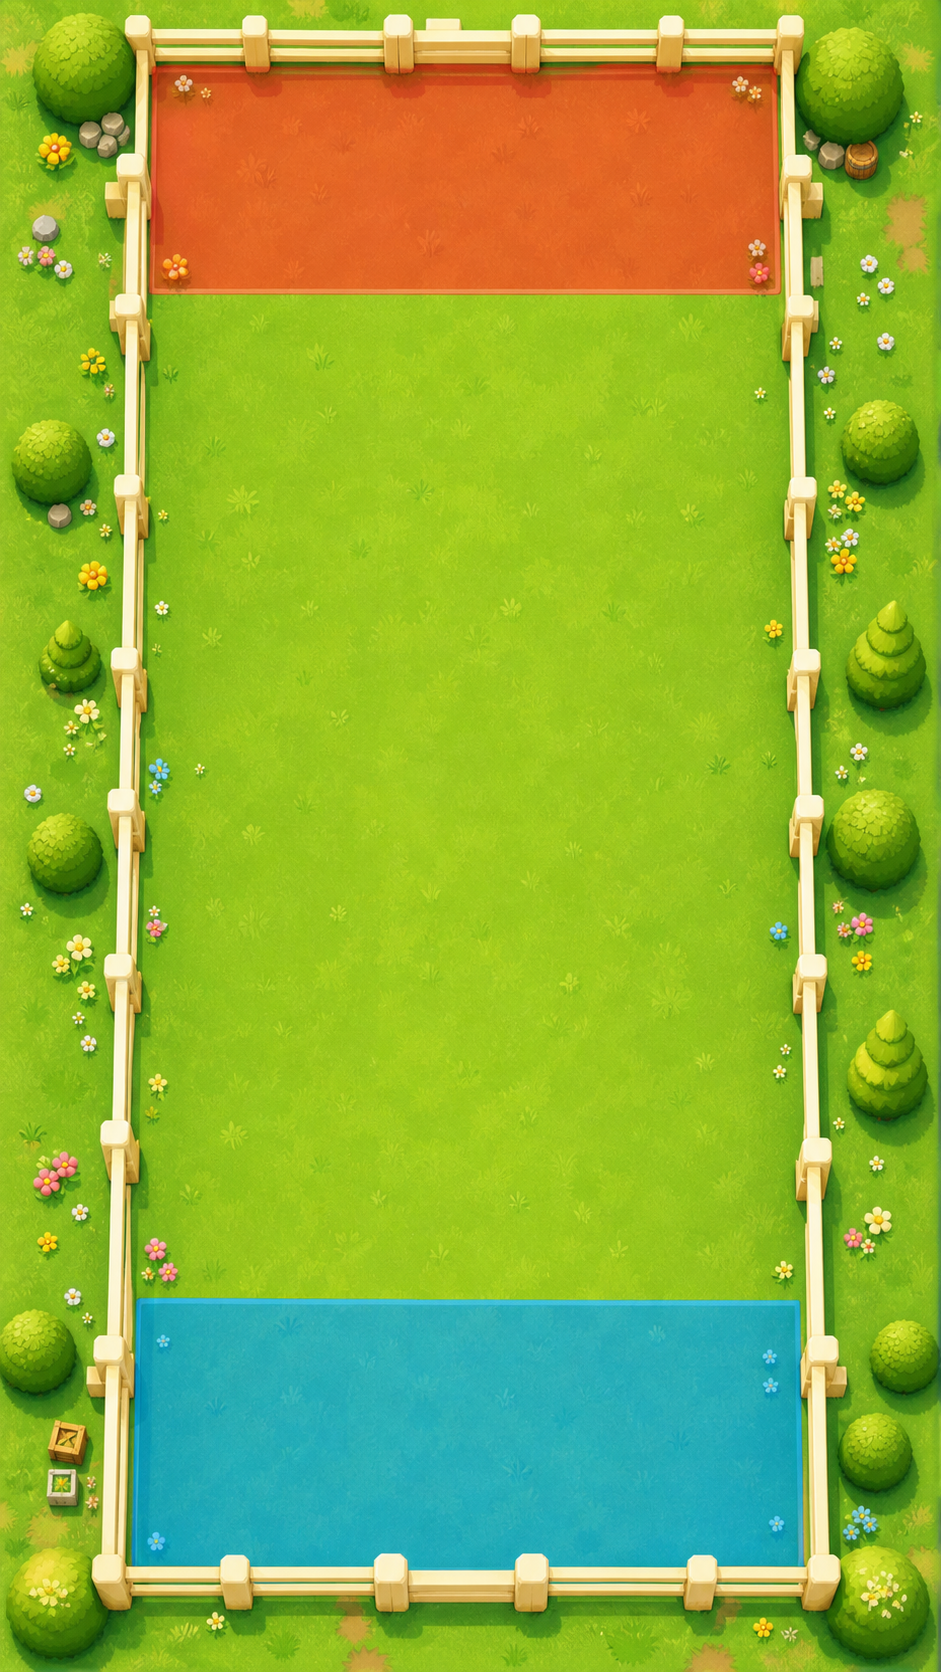
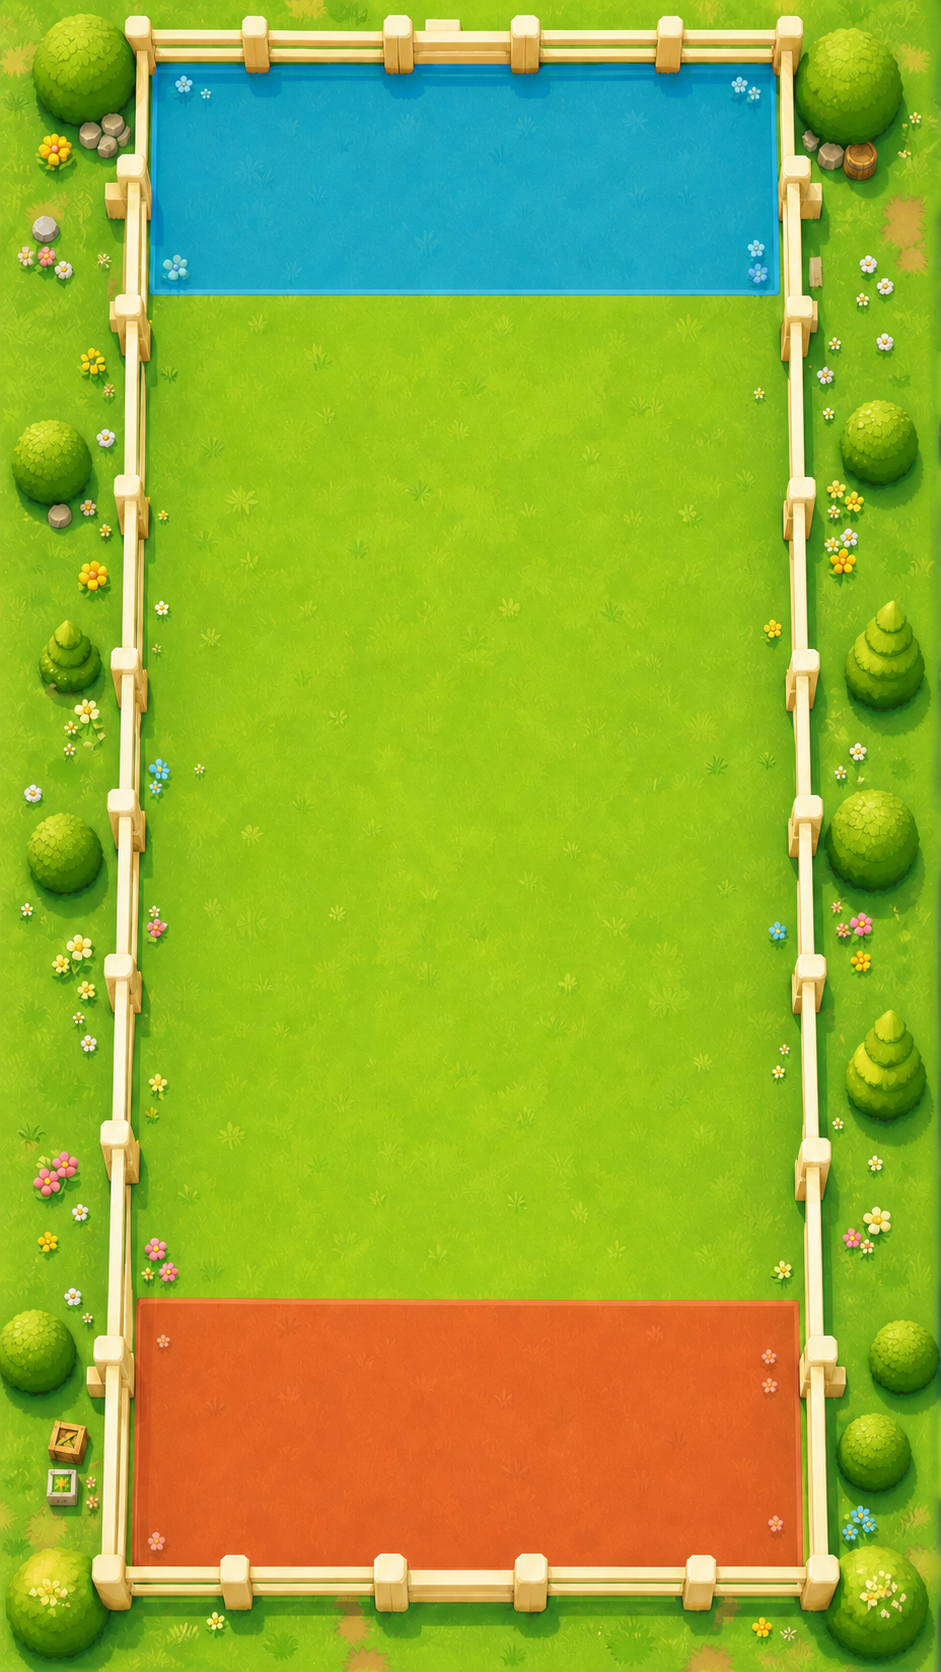
Update sheepdog controls and goals

diff --git a/src/main.ts b/src/main.ts
@@ -10,15 +10,18 @@ const SHEEP_COUNT = 50;
 const MATCH_SECONDS = 90;
 const DOG_MAX_SPEED = 9.2;
 const DOG_ACCELERATION = 34;
-const SHEEP_MAX_SPEED = 6.3;
-const SHEEP_REPEL_RADIUS = 5.2;
-const SHEEP_SEPARATION_RADIUS = 1.65;
+const SHEEP_MAX_SPEED = 7.2;
+const SHEEP_REPEL_RADIUS = 6.4;
+const SHEEP_REPEL_FORCE = 46;
+const SHEEP_SEPARATION_RADIUS = 1.9;
+const SHEEP_SEPARATION_FORCE = 7.2;
 const SHEEP_WANDER_FORCE = 1.6;
 const SHEEP_WANDER_INTERVAL_MIN = 0.8;
 const SHEEP_WANDER_INTERVAL_MAX = 2.2;
 const SHEEP_SCORE_DURATION = 0.72;
 const TARGET_MIN_DISTANCE = 3.1;
 const TARGET_GRAB_RADIUS = 1.65;
+const TARGET_DRAG_READY_DISTANCE = 0.65;
 const FIELD_MARGIN = 0.75;
 const DOG_SCALE = 1.45;
 const SHEEP_SCALE = 1.55;
@@ -41,7 +44,7 @@ type Player = {
   dogVelocity: THREE.Vector3;
   target: THREE.Vector3;
   targetRing: THREE.Group;
-  leash: THREE.Line;
+  leash: THREE.Mesh;
 };
 
 type Sheep = {
@@ -72,8 +75,8 @@ const resultTitle = requireElement<HTMLElement>("#result-title");
 const resultDetail = requireElement<HTMLElement>("#result-detail");
 
 const scene = new THREE.Scene();
-scene.background = new THREE.Color(0xa9dcff);
-scene.fog = new THREE.Fog(0xa9dcff, 38, 66);
+scene.background = new THREE.Color(0x87c94a);
+scene.fog = new THREE.Fog(0x87c94a, 38, 66);
 
 const camera = new THREE.OrthographicCamera(-1, 1, 1, -1, 0.1, 100);
 camera.position.set(0, 25, 18);
@@ -189,11 +192,12 @@ function createPlayer(index: PlayerIndex, color: number, accent: string, startZ:
   targetRing.position.copy(target);
   scene.add(targetRing);
 
-  const leashGeometry = new THREE.BufferGeometry().setFromPoints([dog.position, target]);
-  const leash = new THREE.Line(
-    leashGeometry,
-    new THREE.LineBasicMaterial({ color, transparent: true, opacity: 0.46 }),
+  const leash = new THREE.Mesh(
+    new THREE.CylinderGeometry(0.08, 0.08, 1, 14),
+    new THREE.MeshBasicMaterial({ color, transparent: true, opacity: 0.78 }),
   );
+  leash.position.y = 0.2;
+  leash.visible = false;
   scene.add(leash);
 
   return {
@@ -310,6 +314,11 @@ function tick() {
 
 function updatePlayers(dt: number) {
   for (const player of players) {
+    if (player.pointerId !== null) {
+      player.dogVelocity.set(0, 0, 0);
+      continue;
+    }
+
     tmpVector.copy(player.target).sub(player.dog.position);
     tmpVector.y = 0;
     const distance = tmpVector.length();
@@ -341,7 +350,7 @@ function updateSheep(dt: number) {
       tmpVector2.y = 0;
       const distance = Math.max(tmpVector2.length(), 0.01);
       if (distance < SHEEP_REPEL_RADIUS) {
-        force.addScaledVector(tmpVector2.normalize(), (1 - distance / SHEEP_REPEL_RADIUS) * 28);
+        force.addScaledVector(tmpVector2.normalize(), (1 - distance / SHEEP_REPEL_RADIUS) * SHEEP_REPEL_FORCE);
       }
     }
 
@@ -351,7 +360,7 @@ function updateSheep(dt: number) {
       tmpVector2.y = 0;
       const distance = Math.max(tmpVector2.length(), 0.01);
       if (distance < SHEEP_SEPARATION_RADIUS) {
-        force.addScaledVector(tmpVector2.normalize(), (1 - distance / SHEEP_SEPARATION_RADIUS) * 5.5);
+        force.addScaledVector(tmpVector2.normalize(), (1 - distance / SHEEP_SEPARATION_RADIUS) * SHEEP_SEPARATION_FORCE);
       }
     }
 
@@ -394,9 +403,9 @@ function checkGoal(item: Sheep) {
   const insideGoalX = Math.abs(x) < FIELD_WIDTH / 2 - 1.2;
   if (!insideGoalX) return;
   if (z > FIELD_HEIGHT / 2 - GOAL_SCORING_DEPTH) {
-    scoreSheep(item, 0);
-  } else if (z < -FIELD_HEIGHT / 2 + GOAL_SCORING_DEPTH) {
     scoreSheep(item, 1);
+  } else if (z < -FIELD_HEIGHT / 2 + GOAL_SCORING_DEPTH) {
+    scoreSheep(item, 0);
   }
 }
 
@@ -528,10 +537,22 @@ function updateVisuals() {
     player.targetRing.position.copy(player.target);
     const activeScale = player.pointerId === null ? 1 : 1.18;
     player.targetRing.scale.lerp(tmpVector.set(activeScale, activeScale, activeScale), 0.22);
-    const positions = player.leash.geometry.attributes.position as THREE.BufferAttribute;
-    positions.setXYZ(0, player.dog.position.x, 0.18, player.dog.position.z);
-    positions.setXYZ(1, player.target.x, 0.18, player.target.z);
-    positions.needsUpdate = true;
+    tmpVector2.copy(player.target).sub(player.dog.position);
+    tmpVector2.y = 0;
+    const leashLength = tmpVector2.length();
+    player.leash.visible = player.pointerId !== null && leashLength > 0.05;
+    if (player.leash.visible) {
+      player.leash.position
+        .copy(player.dog.position)
+        .add(player.target)
+        .multiplyScalar(0.5);
+      player.leash.position.y = 0.2;
+      player.leash.scale.set(1, leashLength, 1);
+      player.leash.quaternion.setFromUnitVectors(
+        tmpVector.set(0, 1, 0),
+        tmpVector2.normalize(),
+      );
+    }
   }
 }
 
@@ -562,7 +583,10 @@ function onPointerDown(event: PointerEvent) {
   if (gameOver) return;
   const point = pointerToWorld(event);
   const available = players.filter(
-    (player) => player.pointerId === null && player.target.distanceTo(point) <= TARGET_GRAB_RADIUS,
+    (player) =>
+      player.pointerId === null &&
+      canDragTarget(player) &&
+      player.target.distanceTo(point) <= TARGET_GRAB_RADIUS,
   );
   if (available.length === 0) return;
   available.sort((a, b) => a.target.distanceToSquared(point) - b.target.distanceToSquared(point));
@@ -607,6 +631,12 @@ function moveTarget(player: Player, point: THREE.Vector3) {
   }
 }
 
+function canDragTarget(player: Player) {
+  tmpVector.copy(player.target).sub(player.dog.position);
+  tmpVector.y = 0;
+  return tmpVector.length() <= TARGET_DRAG_READY_DISTANCE;
+}
+
 function pointerToWorld(event: PointerEvent) {
   const rect = renderer.domElement.getBoundingClientRect();
   pointer.x = ((event.clientX - rect.left) / rect.width) * 2 - 1;
@@ -634,7 +664,7 @@ function resize() {
   const height = window.innerHeight;
   const aspect = width / height;
   const fieldAspect = FIELD_WIDTH / FIELD_HEIGHT;
-  const viewHeight = aspect > fieldAspect ? FIELD_HEIGHT + 6 : (FIELD_WIDTH + 6) / aspect;
+  const viewHeight = aspect > fieldAspect ? FIELD_HEIGHT + 2 : (FIELD_WIDTH + 1) / aspect;
   const viewWidth = viewHeight * aspect;
   camera.left = -viewWidth / 2;
   camera.right = viewWidth / 2;

diff --git a/src/styles.css b/src/styles.css
@@ -53,13 +53,13 @@ canvas {
 
 .score-p1 {
   left: 50%;
-  bottom: max(14px, env(safe-area-inset-bottom));
+  top: max(14px, env(safe-area-inset-top));
   transform: translateX(-50%);
 }
 
 .score-p2 {
   left: 50%;
-  top: max(14px, env(safe-area-inset-top));
+  bottom: max(14px, env(safe-area-inset-bottom));
   transform: translateX(-50%) rotate(180deg);
 }
 
@@ -163,11 +163,11 @@ canvas {
   }
 
   .score-p1 {
-    bottom: max(10px, env(safe-area-inset-bottom));
+    top: max(10px, env(safe-area-inset-top));
   }
 
   .score-p2 {
-    top: max(10px, env(safe-area-inset-top));
+    bottom: max(10px, env(safe-area-inset-bottom));
   }
 
   .timer {